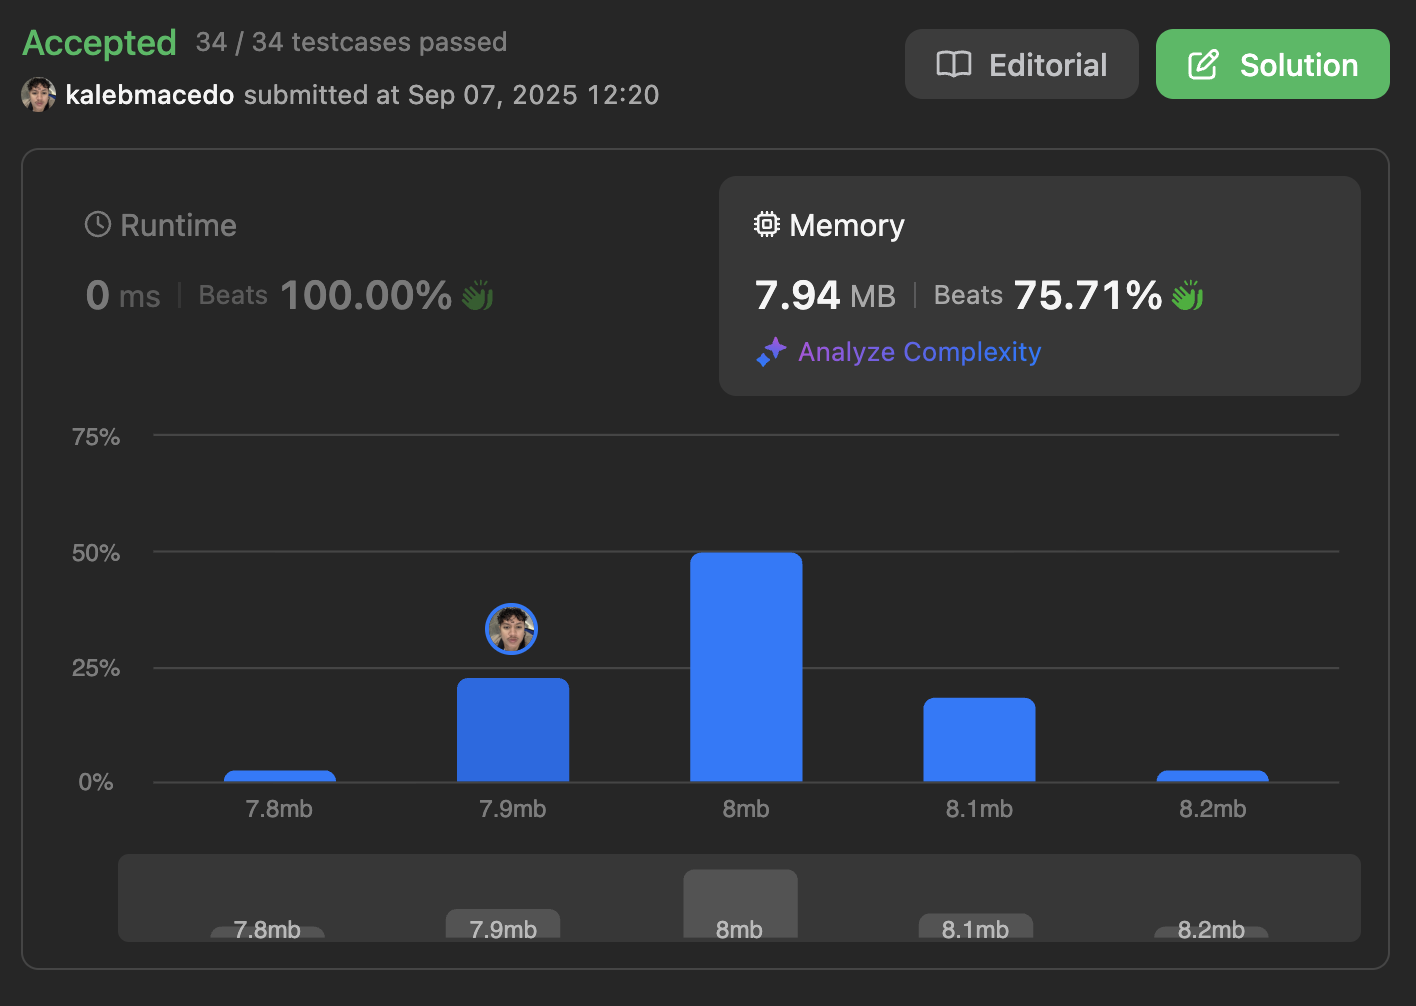
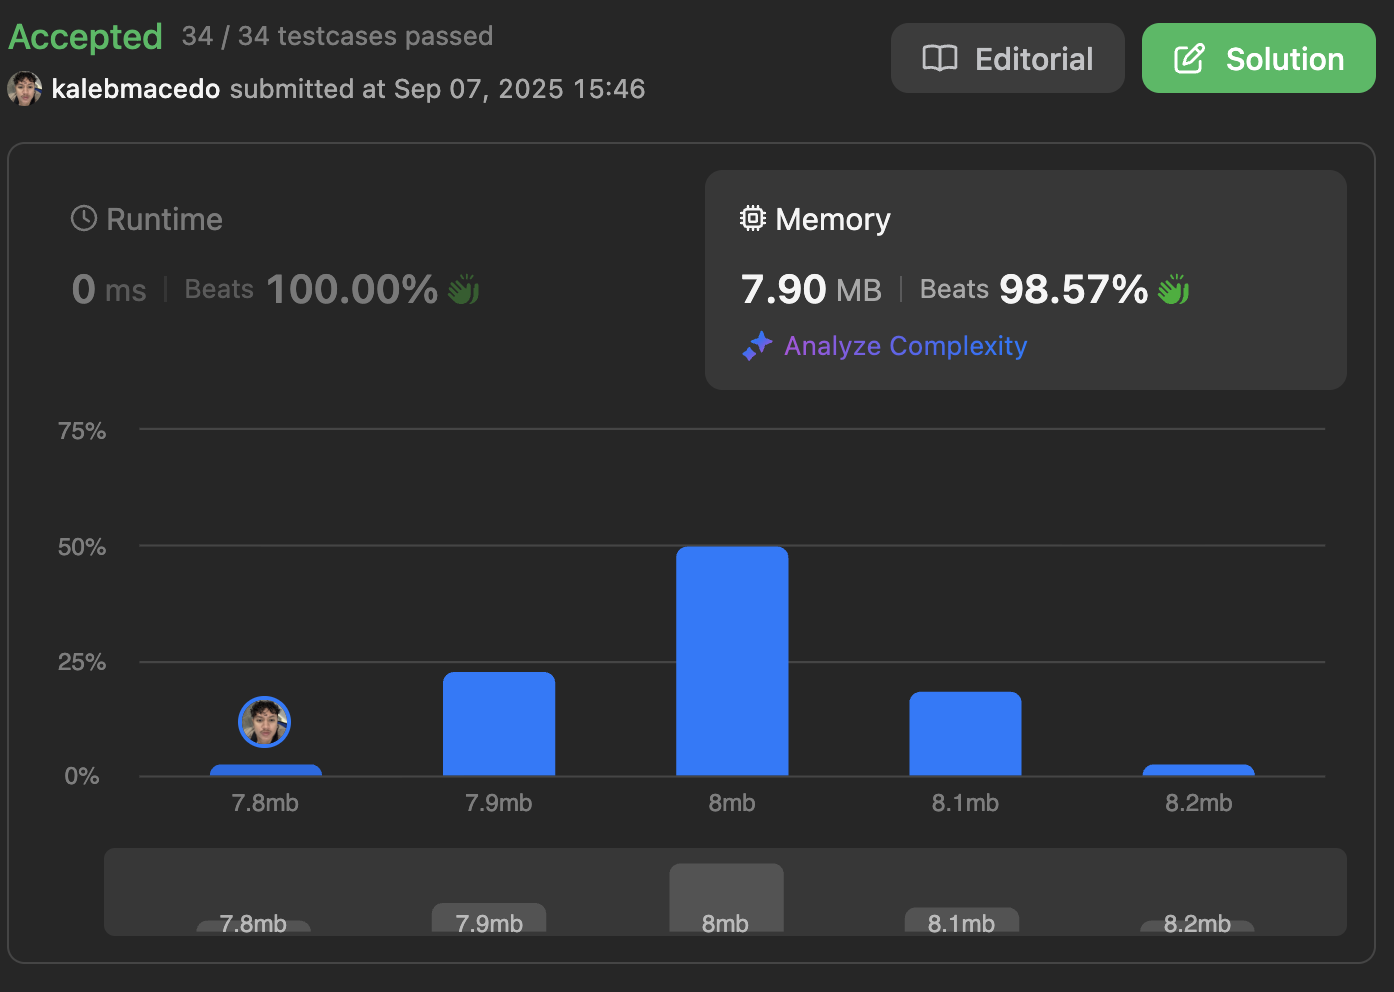
Correção do código de busca

diff --git a/Questions/410_Split_Array_Largest_Sum/Solution.c b/Questions/410_Split_Array_Largest_Sum/Solution.c
@@ -1,42 +1,68 @@
 #include <stdbool.h>
 
-bool podeDividir(int* nums, int numsSize, int k, long long somaMaximaPermitida) {
-    int subarraysNecessarios = 1;
+static inline int contarSubarraysNecessarios(int* numeros, int tamanho, long long limite) {
+    int contagem = 1;
     long long somaAtual = 0;
-
-    for (int i = 0; i < numsSize; i++) {
-        somaAtual += nums[i];
-        if (somaAtual > somaMaximaPermitida) {
-            subarraysNecessarios++;
-            somaAtual = nums[i];
+    for (int i = 0; i < tamanho; i++) {
+        somaAtual += numeros[i];
+        if (somaAtual > limite) {
+            contagem++;
+            somaAtual = numeros[i];
         }
     }
-    return subarraysNecessarios <= k;
+    return contagem;
 }
 
-int splitArray(int* nums, int numsSize, int k) {
-    long long inicioBusca = 0;
-    long long fimBusca = 0;
+int splitArray(int* numeros, int tamanho, int quantidadeSubarrays) {
+    long long limiteInferior = 0;
+    long long limiteSuperior = 0;
 
-    for (int i = 0; i < numsSize; i++) {
-        if (nums[i] > inicioBusca) {
-            inicioBusca = nums[i];
-        }
-        fimBusca += nums[i];
+    for (int i = 0; i < tamanho; i++) {
+        if (numeros[i] > limiteInferior) limiteInferior = numeros[i];
+        limiteSuperior += numeros[i];
     }
 
-    long long melhorResposta = fimBusca;
+    int subarraysEmLimiteInferior = contarSubarraysNecessarios(numeros, tamanho, limiteInferior);
+    if (subarraysEmLimiteInferior <= quantidadeSubarrays) return (int)limiteInferior;
 
-    while (inicioBusca <= fimBusca) {
-        long long meio = inicioBusca + (fimBusca - inicioBusca) / 2;
+    int subarraysEmLimiteSuperior = 1;
 
-        if (podeDividir(nums, numsSize, k, meio)) {
-            melhorResposta = meio;
-            fimBusca = meio - 1;
+    while (limiteInferior + 1 < limiteSuperior) {
+        long long intervalo = limiteSuperior - limiteInferior;
+
+        double denominador = (double)(subarraysEmLimiteInferior - subarraysEmLimiteSuperior);
+        long long palpite;
+        if (denominador <= 0.0) {
+            palpite = limiteInferior + intervalo / 2;
         } else {
-            inicioBusca = meio + 1;
+            double fatorInterpolacao = (double)(quantidadeSubarrays - subarraysEmLimiteInferior) / denominador;
+            if (fatorInterpolacao < 0.0) fatorInterpolacao = 0.0;
+            if (fatorInterpolacao > 1.0) fatorInterpolacao = 1.0;
+            long long estimativa = limiteInferior + (long long)(fatorInterpolacao * (double)intervalo);
+
+            long long margem = intervalo / 4;
+            long long minPalpite = limiteInferior + margem;
+            long long maxPalpite = limiteSuperior - margem;
+            if (minPalpite <= limiteInferior) minPalpite = limiteInferior + 1;
+            if (maxPalpite >= limiteSuperior) maxPalpite = limiteSuperior - 1;
+
+            if (estimativa < minPalpite) estimativa = minPalpite;
+            if (estimativa > maxPalpite) estimativa = maxPalpite;
+
+            if (estimativa <= limiteInferior) estimativa = limiteInferior + 1;
+            if (estimativa >= limiteSuperior) estimativa = limiteSuperior - 1;
+            palpite = estimativa;
+        }
+
+        int subarraysEmPalpite = contarSubarraysNecessarios(numeros, tamanho, palpite);
+        if (subarraysEmPalpite <= quantidadeSubarrays) {
+            limiteSuperior = palpite;
+            subarraysEmLimiteSuperior = subarraysEmPalpite;
+        } else {
+            limiteInferior = palpite;
+            subarraysEmLimiteInferior = subarraysEmPalpite;
         }
     }
 
-    return (int)melhorResposta;
+    return (int)limiteSuperior;
 }
